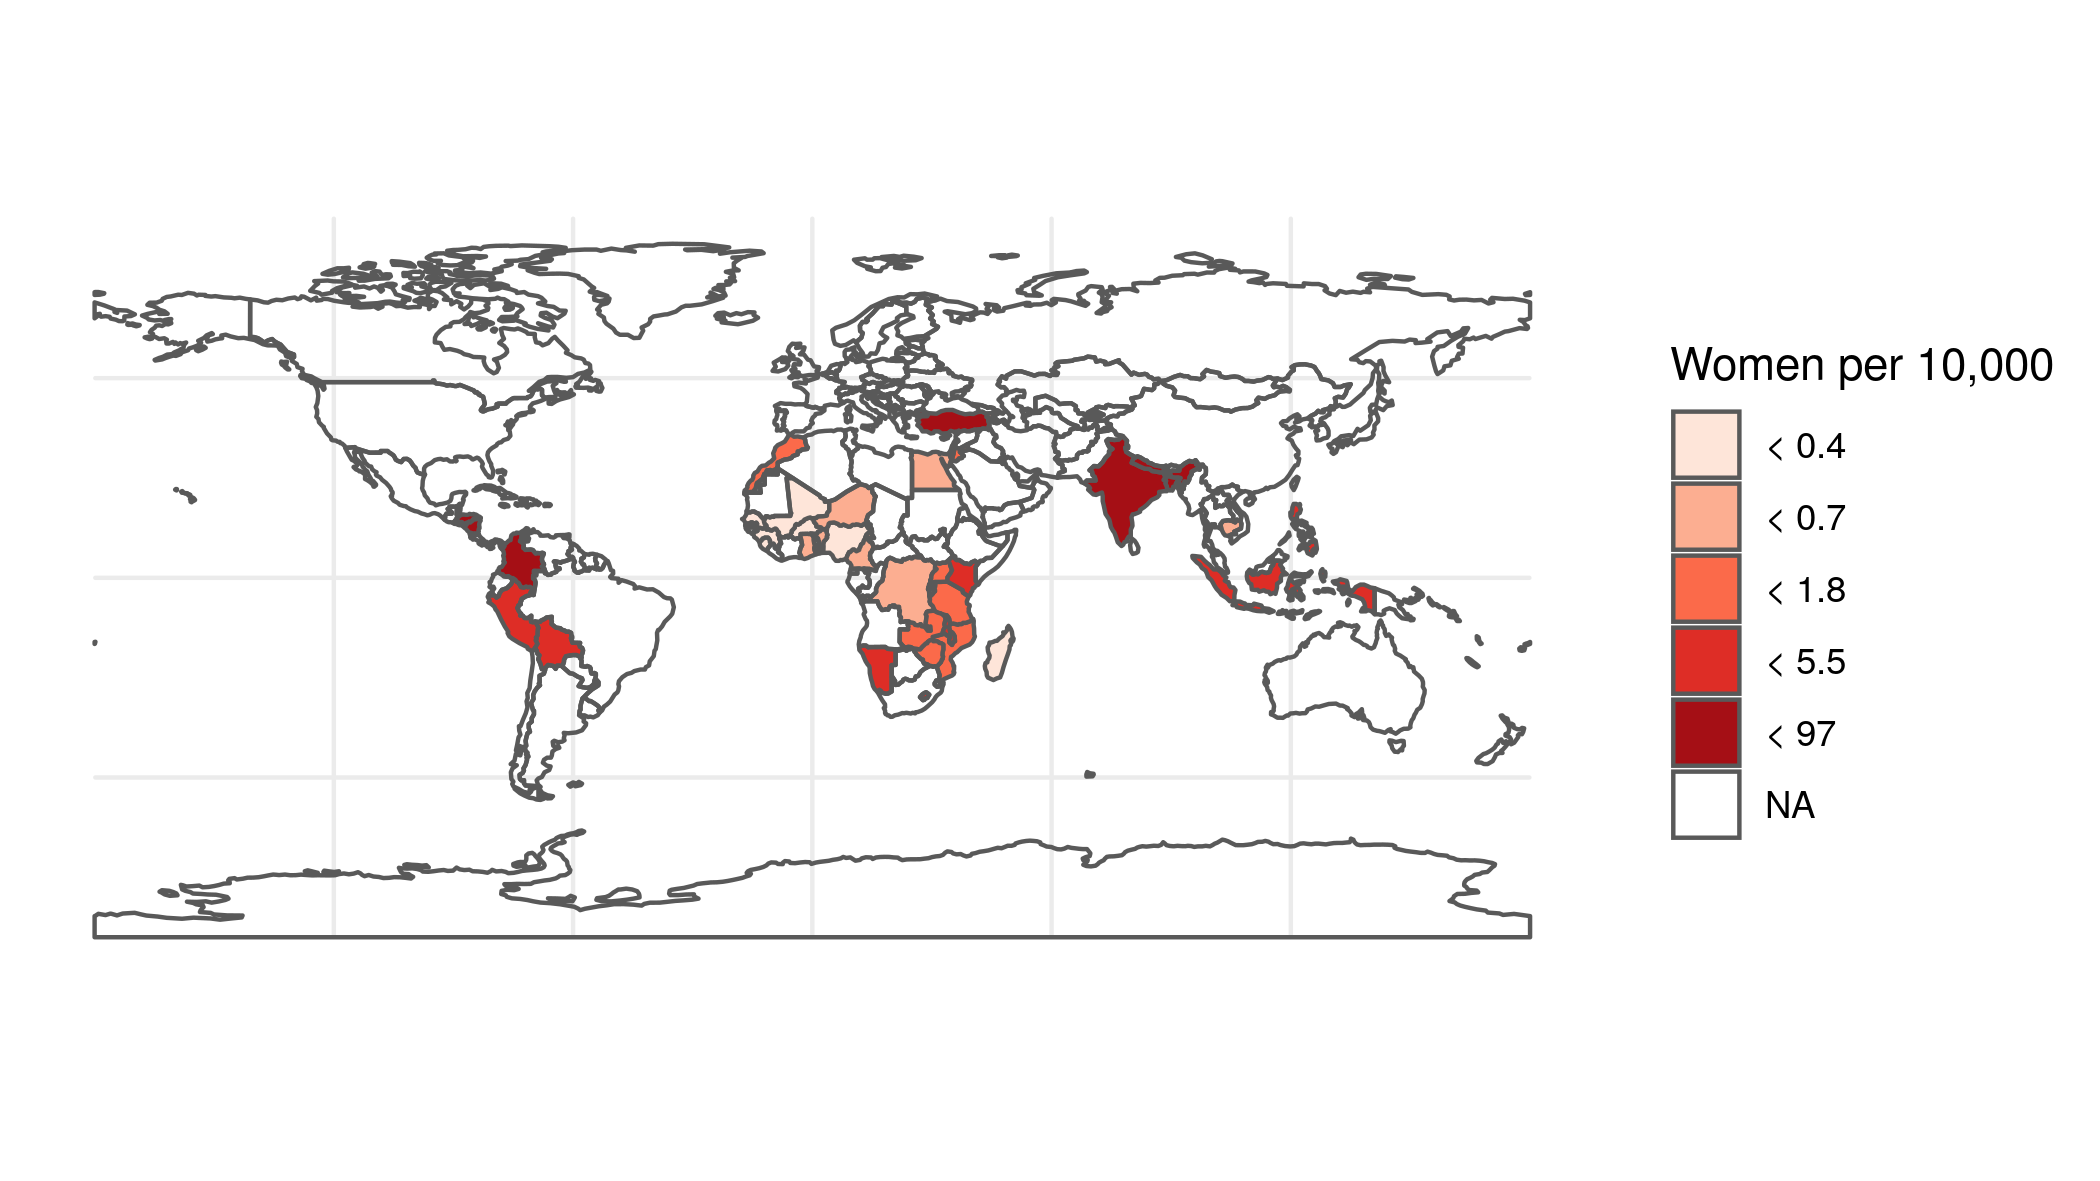
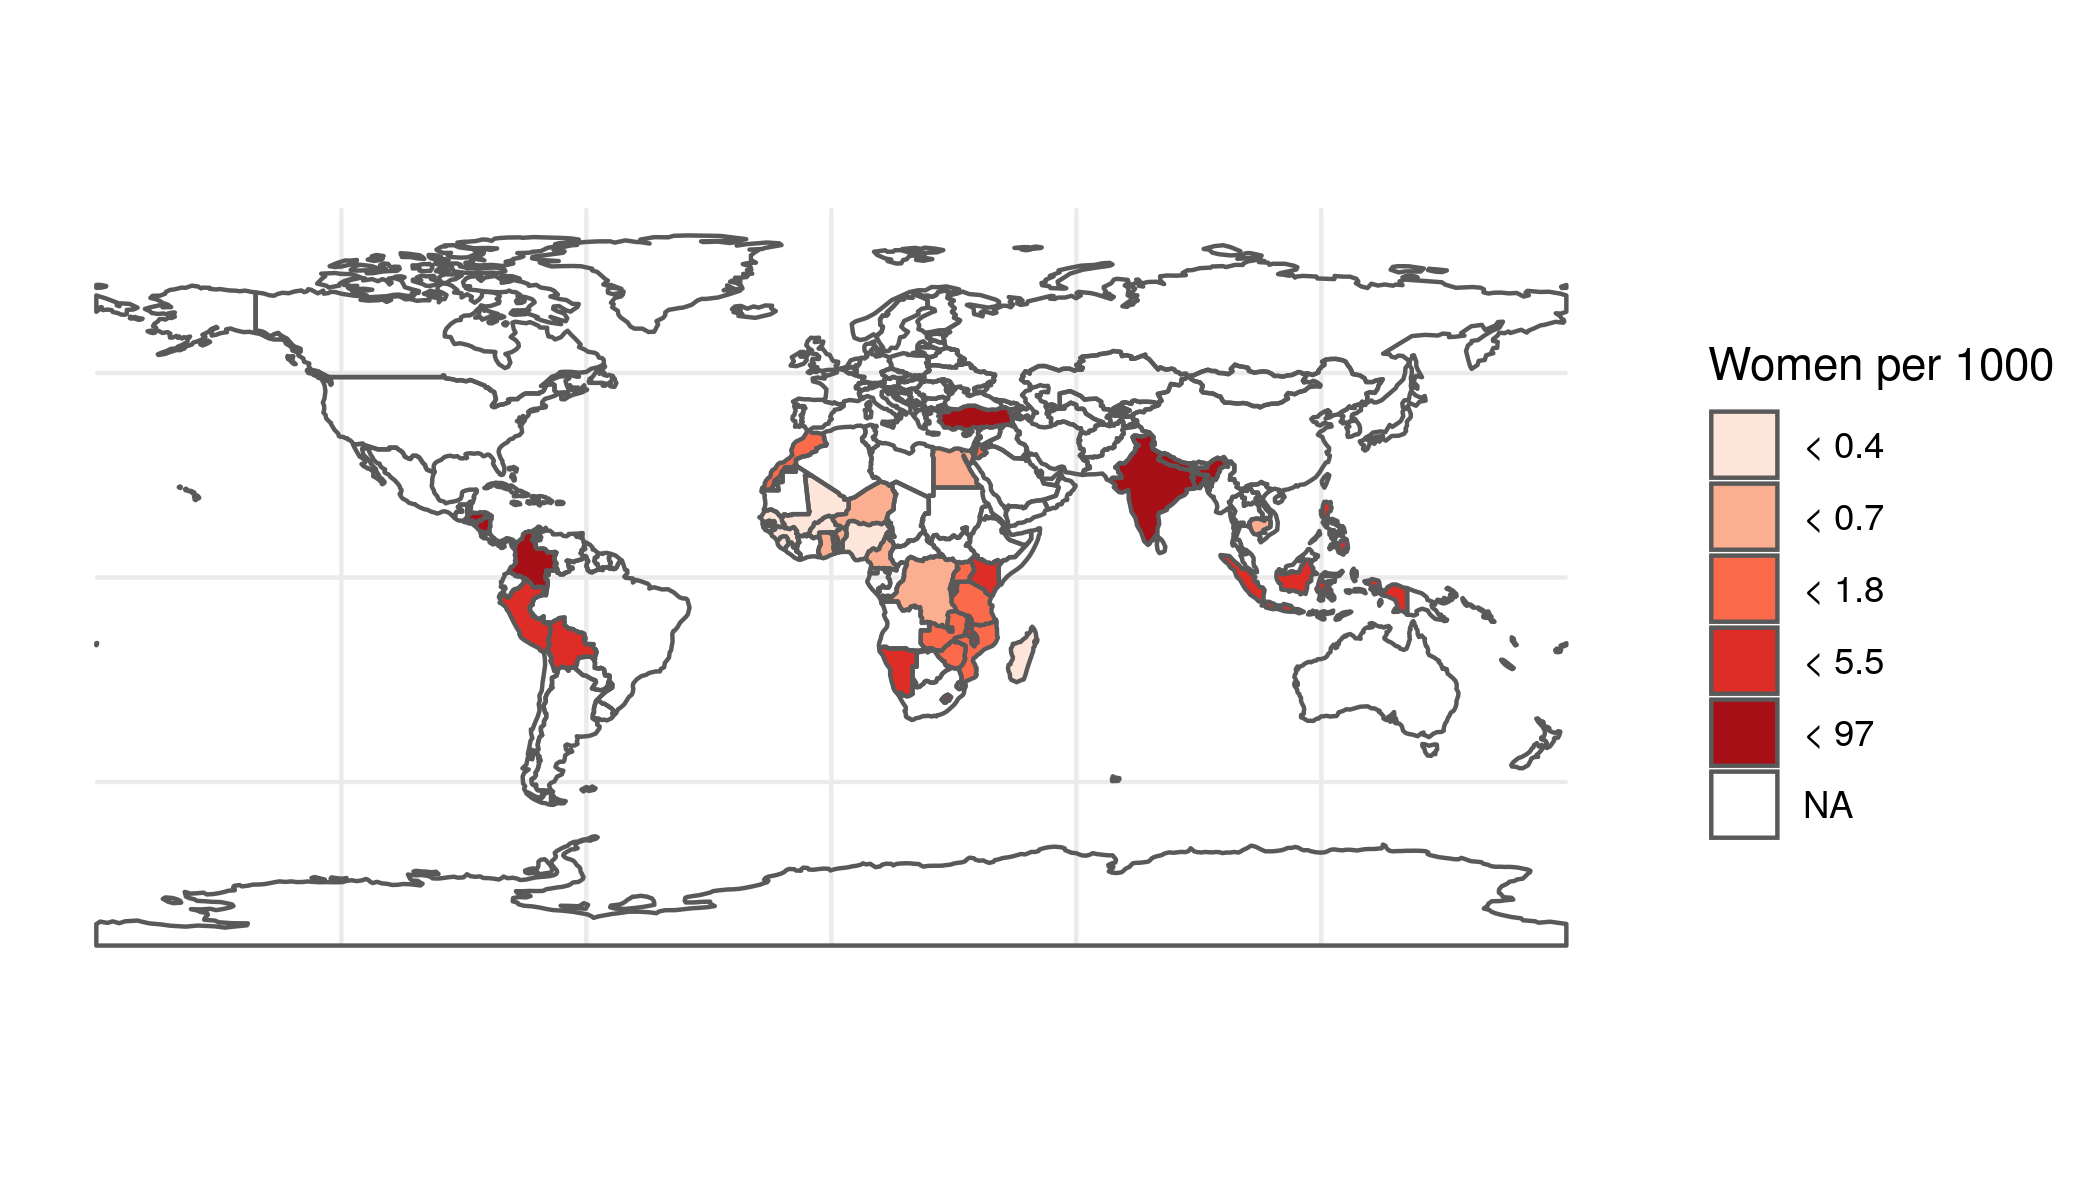
build site 10000 to 1000

Changed region(s): [[0.031, 0.1829, 0.7429, 0.823], [0.3405, 0.2134, 0.7429, 0.6706], [0.7738, 0.2743, 0.9595, 0.7316]]

diff --git a/post/uninformed_sterilization/index.html b/post/uninformed_sterilization/index.html
@@ -721,10 +721,10 @@ Once I had this indicator, namely the share of women that had gone through &ldqu
 <figure id="figure-women-that-have-gone-through-uninformed-sterilization-per-10000-women-in-40-countries-data-from-2000-to-2010-from-dhs-samples">
 
 
-  <a data-fancybox="" href="/post/uninformed_sterilization/map_steri_hu63bb29bfba0549f3ec10916a0c50de9d_252847_2000x2000_fit_lanczos_2.png" data-caption="Women that have gone through uninformed sterilization (per 10,000 women), in 40 countries, data from 2000 to 2010 from DHS samples">
+  <a data-fancybox="" href="/post/uninformed_sterilization/map_steri_hubd4ec4a6f886bd2d5c72e5df82deaad1_257748_2000x2000_fit_lanczos_2.png" data-caption="Women that have gone through uninformed sterilization (per 10,000 women), in 40 countries, data from 2000 to 2010 from DHS samples">
 
 
-  <img data-src="/post/uninformed_sterilization/map_steri_hu63bb29bfba0549f3ec10916a0c50de9d_252847_2000x2000_fit_lanczos_2.png" class="lazyload" alt="" width="2100" height="1181">
+  <img data-src="/post/uninformed_sterilization/map_steri_hubd4ec4a6f886bd2d5c72e5df82deaad1_257748_2000x2000_fit_lanczos_2.png" class="lazyload" alt="" width="2100" height="1181">
 </a>
 
 
